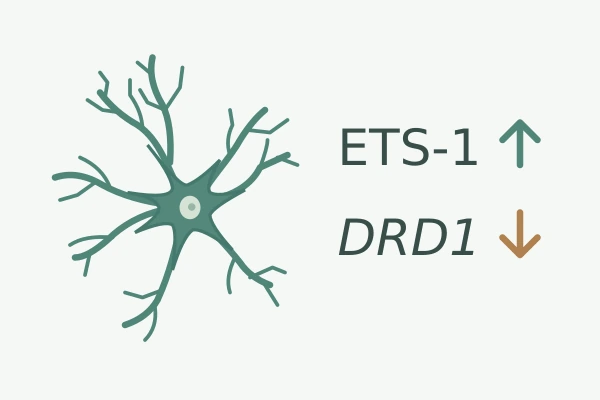
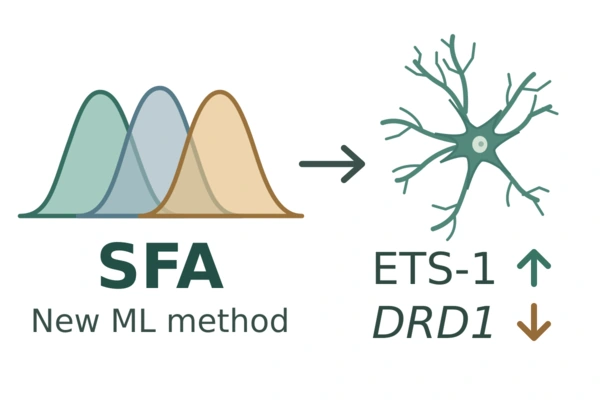
Show the Spectrum Formation Approach alongside its neuronal validation

diff --git a/research/systems/index.html b/research/systems/index.html
@@ -10,7 +10,7 @@
     <p class="paper-summary">アホロートルの四肢再生に関わる短いDNA配列の組み合わせを、ヒトとマウスでも対応する遺伝子の近くに見いだしました。ゲノムAIのAlphaGenomeは、哺乳類の有力な候補領域では転写が抑えられていると予測しました。</p>
   </div>
 </article><article class="paper" data-kind="article">
-  <img class="paper-thumb" src="../../assets/publications/spectrum.webp" alt="神経細胞の横で、ETS-1の増加とDRD1発現の低下を示す矢印" width="600" height="400" loading="lazy" decoding="async">
+  <img class="paper-thumb" src="../../assets/publications/spectrum.webp?v=849a50d4" alt="開発した機械学習手法SFAは疾患と対照の状態の重なりをモデル化し、脳の遺伝子発現データからETS-1を候補として抽出。ヒトiPS細胞由来の前脳神経細胞でETS-1を過剰発現させると、DRD1のmRNAが減少した。" width="600" height="400" loading="lazy" decoding="async">
   <div class="paper-copy">
     <h3 lang="en"><a href="https://doi.org/10.1038/s41540-025-00579-x">Utility of the continuous spectrum formed by pathological states in characterizing disease properties</a></h3>
     <p class="authors"><strong>Takashi Fujiwara</strong>, Yoshiaki Kariya, Kanata Kobayashi, Soma Matsui, Tappei Takada</p>

diff --git a/index.html b/index.html
@@ -236,7 +236,7 @@
     <p class="paper-summary">HNF1Bを標的とした計算実験で、薬物動態の予測をもとにAIが設計し直した分子は、構造をランダムに変えた分子よりも高い経口バイオアベイラビリティを示すと予測されました。</p>
   </div>
 </article><article class="paper" data-kind="article">
-  <img class="paper-thumb" src="assets/publications/spectrum.webp" alt="神経細胞の横で、ETS-1の増加とDRD1発現の低下を示す矢印" width="600" height="400" loading="lazy" decoding="async">
+  <img class="paper-thumb" src="assets/publications/spectrum.webp?v=849a50d4" alt="開発した機械学習手法SFAは疾患と対照の状態の重なりをモデル化し、脳の遺伝子発現データからETS-1を候補として抽出。ヒトiPS細胞由来の前脳神経細胞でETS-1を過剰発現させると、DRD1のmRNAが減少した。" width="600" height="400" loading="lazy" decoding="async">
   <div class="paper-copy">
     <h3 lang="en"><a href="https://doi.org/10.1038/s41540-025-00579-x">Utility of the continuous spectrum formed by pathological states in characterizing disease properties</a></h3>
     <p class="authors"><strong>Takashi Fujiwara</strong>, Yoshiaki Kariya, Kanata Kobayashi, Soma Matsui, Tappei Takada</p>

diff --git a/en/research/systems/index.html b/en/research/systems/index.html
@@ -10,7 +10,7 @@
     <p class="paper-summary">We found combinations of short DNA motifs associated with axolotl limb regeneration near the corresponding genes in humans and mice. AlphaGenome predicted low transcriptional activity at the strongest mammalian candidate sites.</p>
   </div>
 </article><article class="paper" data-kind="article">
-  <img class="paper-thumb" src="../../../assets/publications/spectrum.webp" alt="A neuron beside arrows showing increased ETS-1 and decreased DRD1 expression." width="600" height="400" loading="lazy" decoding="async">
+  <img class="paper-thumb" src="../../../assets/publications/spectrum.webp?v=849a50d4" alt="Our Spectrum Formation Approach (SFA) models overlap between disease and control groups. Analysis of brain gene expression highlighted ETS-1. Overexpressing ETS-1 in human iPSC-derived forebrain neurons reduced DRD1 mRNA." width="600" height="400" loading="lazy" decoding="async">
   <div class="paper-copy">
     <h3 lang="en"><a href="https://doi.org/10.1038/s41540-025-00579-x">Utility of the continuous spectrum formed by pathological states in characterizing disease properties</a></h3>
     <p class="authors"><strong>Takashi Fujiwara</strong>, Yoshiaki Kariya, Kanata Kobayashi, Soma Matsui, Tappei Takada</p>

diff --git a/en/index.html b/en/index.html
@@ -236,7 +236,7 @@
     <p class="paper-summary">In a computational case study targeting HNF1B, molecules refined using pharmacokinetic feedback had higher predicted oral bioavailability than randomly modified candidates.</p>
   </div>
 </article><article class="paper" data-kind="article">
-  <img class="paper-thumb" src="../assets/publications/spectrum.webp" alt="A neuron beside arrows showing increased ETS-1 and decreased DRD1 expression." width="600" height="400" loading="lazy" decoding="async">
+  <img class="paper-thumb" src="../assets/publications/spectrum.webp?v=849a50d4" alt="Our Spectrum Formation Approach (SFA) models overlap between disease and control groups. Analysis of brain gene expression highlighted ETS-1. Overexpressing ETS-1 in human iPSC-derived forebrain neurons reduced DRD1 mRNA." width="600" height="400" loading="lazy" decoding="async">
   <div class="paper-copy">
     <h3 lang="en"><a href="https://doi.org/10.1038/s41540-025-00579-x">Utility of the continuous spectrum formed by pathological states in characterizing disease properties</a></h3>
     <p class="authors"><strong>Takashi Fujiwara</strong>, Yoshiaki Kariya, Kanata Kobayashi, Soma Matsui, Tappei Takada</p>
